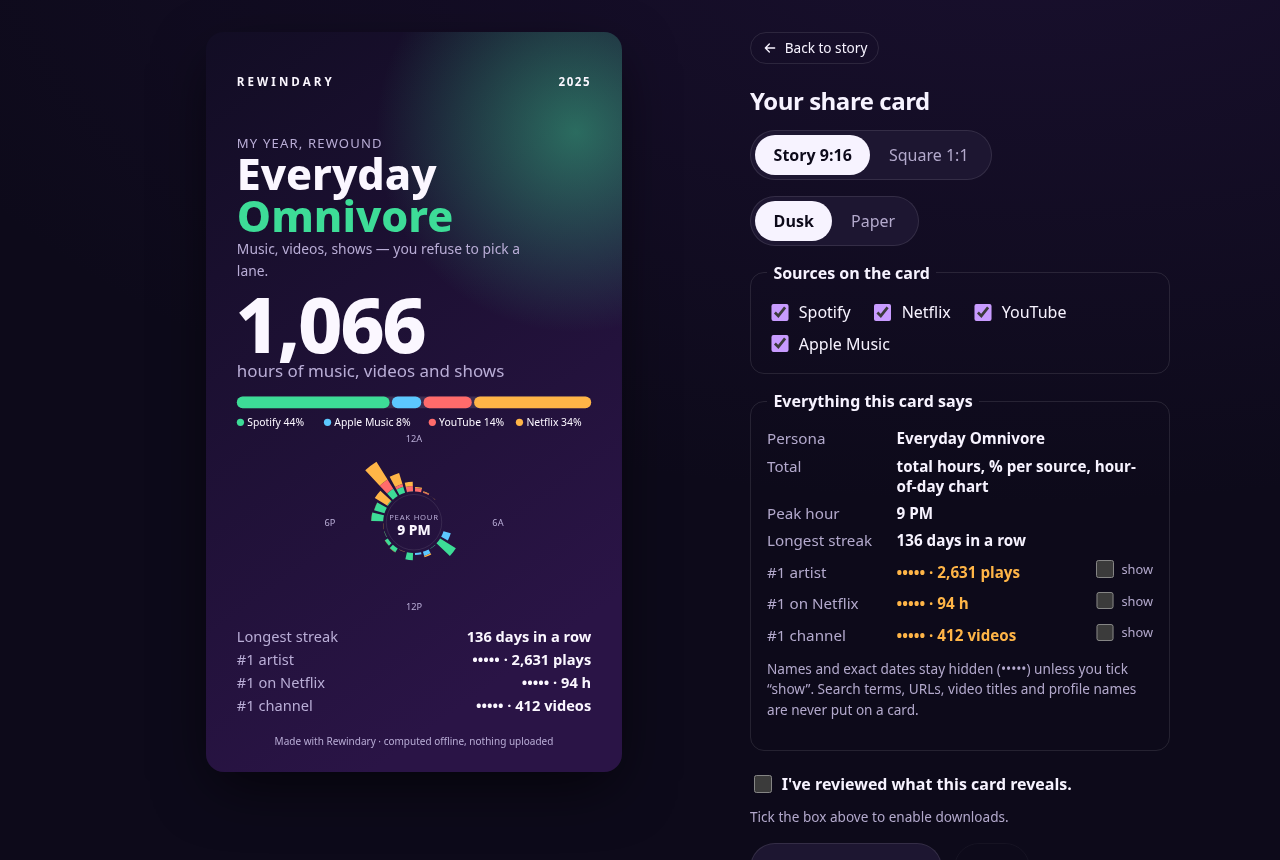
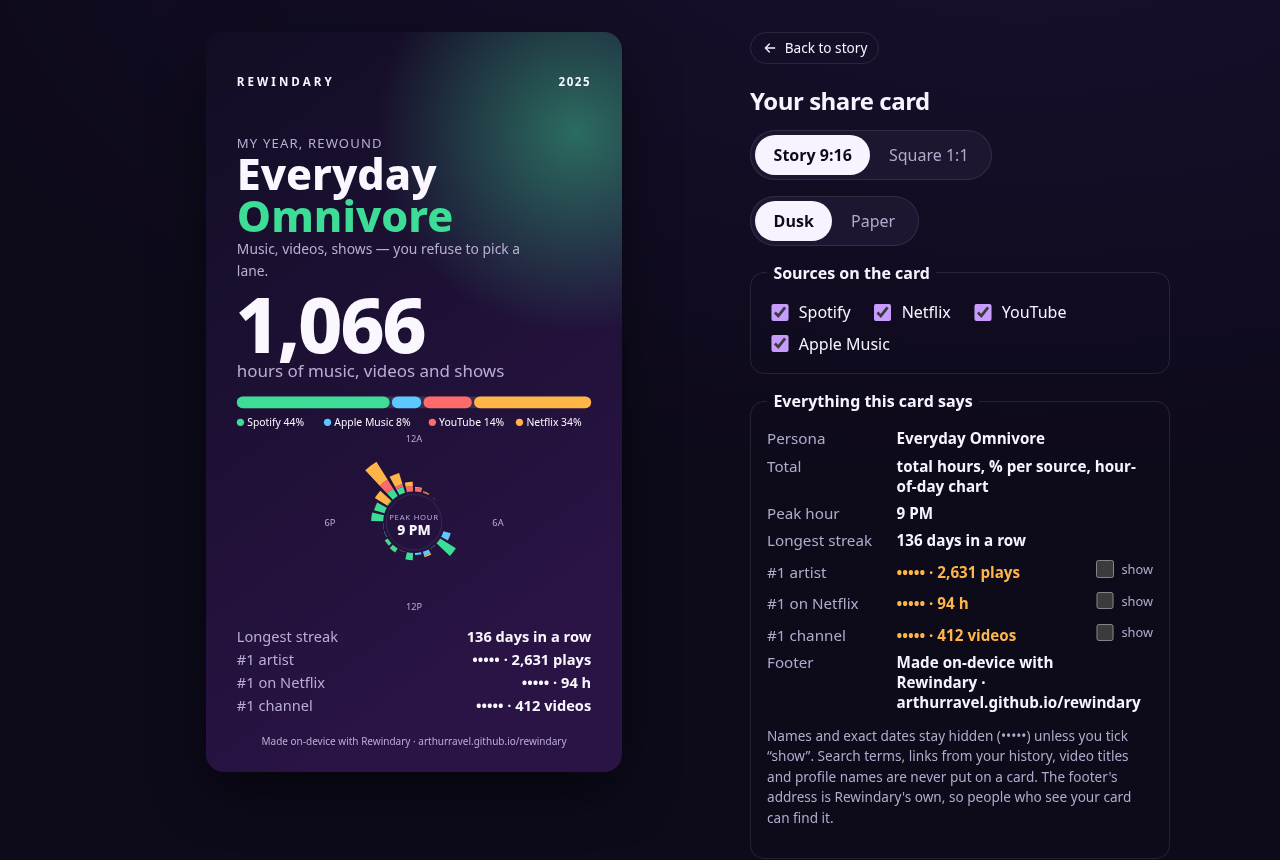
feat(share): put the app address on cards and link to the source
A shared card said "Made with Rewindary" but carried no address, and the
start page claimed "open source" without a link. Cards now end with
"Made on-device with Rewindary · arthurravel.github.io/rewindary" (also
listed in the card review), and the start page and end slide link to the
repository in a new tab with no referrer or opener. Both values live in
src/site.ts; the source and dist scans allow exactly that one URL.

Verified: corepack pnpm@9.15.0 verify (103/103 unit, 42/42 E2E).

Changed region(s): [[0.5938, 0.7558, 0.9062, 0.9674], [0.2188, 0.8465, 0.4375, 0.8767]]

diff --git a/src/cards.ts b/src/cards.ts
@@ -2,14 +2,15 @@ import type { Insights } from './insights';
 import { MUSIC_SOURCES, SOURCE_LABEL } from './model';
 import { dayClockArcs, splitSegments } from './charts';
 import { dayLabel, escapeXml, hourLabel, hours, num, truncate, wrap } from './format';
+import { SITE_ADDRESS } from './site';
 
 /**
  * Share cards are built in two steps:
  *  1. `cardLines()` produces every line of text the card will contain, with a flag for
  *     anything personal (names, exact dates). The review panel shows exactly these lines.
  *  2. `renderCardSvg()` draws only those lines plus anonymous charts.
- * Personal values are hidden unless their id is in `reveal`. Search terms, URLs and raw
- * titles are never part of a card.
+ * Personal values are hidden unless their id is in `reveal`. Search terms, URLs from your
+ * history and raw titles are never part of a card; the only address on it is the app's own (`CARD_FOOTER`).
  */
 export type CardFormat = 'story' | 'square';
 export type CardTheme = 'dusk' | 'paper';
@@ -81,6 +82,12 @@ export function shownLines(ins: Insights, reveal: ReadonlySet<RevealId>, format:
   return format === 'story' ? lines.slice(0, 5) : lines.filter((l) => ['peak', 'streak', 'binge', 'topArtist'].includes(l.id)).slice(0, 3);
 }
 
+/**
+ * The footer every card carries: an anonymous attribution with the app's own address, so a card seen
+ * elsewhere leads back to a tool that can be checked. It is the only address that is ever on a card.
+ */
+export const CARD_FOOTER = `Made on-device with Rewindary · ${SITE_ADDRESS}`;
+
 export function renderCardSvg(ins: Insights, opts: CardOptions): string {
   const p = PALETTES[opts.theme];
   const W = 1080;
@@ -149,7 +156,7 @@ export function renderCardSvg(ins: Insights, opts: CardOptions): string {
     o.push(t(80, y, story ? 38 : 34, l.label, `fill="${p.dim}"`));
     o.push(t(W - 80, y, story ? 38 : 34, l.value, `text-anchor="end" font-weight="700"`));
   }
-  o.push(t(W / 2, H - (story ? 70 : 44), 26, 'Made with Rewindary · computed offline, nothing uploaded', `text-anchor="middle" fill="${p.dim}"`));
+  o.push(t(W / 2, H - (story ? 70 : 44), 26, CARD_FOOTER, `text-anchor="middle" fill="${p.dim}"`));
   o.push('</g></svg>');
   return o.join('');
 }

diff --git a/src/styles.css b/src/styles.css
@@ -22,7 +22,7 @@ code { background: #ffffff12; padding: 1px 6px; border-radius: 6px; font-size: .
 button, .button { font: inherit; cursor: pointer; border-radius: 999px; padding: .8em 1.4em; border: 1px solid transparent; transition: transform 160ms var(--ease-out), box-shadow 200ms var(--ease-out), background-color 150ms ease, border-color 150ms ease, color 150ms ease, opacity 150ms ease; display: inline-flex; align-items: center; justify-content: center; gap: .5em; }
 button:active:not(:disabled), .button:active { transform: scale(.97); }
 button:disabled { opacity: .4; cursor: not-allowed; }
-button:focus-visible, .button:focus-within, .drop:focus-within, input:focus-visible, select:focus-visible, summary:focus-visible, [tabindex]:focus-visible { outline: 3px solid var(--accent); outline-offset: 2px; }
+button:focus-visible, a:focus-visible, .button:focus-within, .drop:focus-within, input:focus-visible, select:focus-visible, summary:focus-visible, [tabindex]:focus-visible { outline: 3px solid var(--accent); outline-offset: 2px; }
 .primary { background: linear-gradient(135deg, #f6d365, #fda085 30%, #c89bff 70%, #7ee8c4); color: #170f2a; font-weight: 700; }
 .ghost { background: transparent; color: var(--fg); border-color: var(--line); }
 .primary:disabled { background: var(--card); color: var(--dim); border-color: var(--line); opacity: 1; }
@@ -113,6 +113,7 @@ input[type=checkbox] { width: 1.1rem; height: 1.1rem; accent-color: var(--accent
 .tap { position: absolute; top: 72px; bottom: 0; background: transparent; border: 0; border-radius: 0; z-index: 2; padding: 0; }
 .tap.prev { left: 0; width: 30%; } .tap.next { right: 0; width: 70%; }
 .slide.end { z-index: 3; }
+.slide.end .source { margin: 0; max-width: 34ch; }
 .huge { font-size: clamp(2.6rem, 11vw, 3.6rem); font-weight: 850; }
 .huge.persona { background: linear-gradient(90deg, #fff, var(--tone)); -webkit-background-clip: text; background-clip: text; color: transparent; }
 .mega { font-size: clamp(4.5rem, 24vw, 6rem); font-weight: 850; margin: 0; letter-spacing: -0.04em; line-height: 1; font-variant-numeric: tabular-nums; }

diff --git a/tests/cards.test.ts b/tests/cards.test.ts
@@ -1,5 +1,6 @@
 import { describe, expect, it } from 'vitest';
-import { cardLines, renderCardSvg, shownLines, type RevealId } from '../src/cards';
+import { CARD_FOOTER, cardLines, renderCardSvg, shownLines, type RevealId } from '../src/cards';
+import { SITE_ADDRESS } from '../src/site';
 import { computeInsights } from '../src/insights';
 import type { LifeEvent } from '../src/model';
 import { loadDemo } from '../src/pipeline';
@@ -43,6 +44,26 @@ describe('share-card redaction', () => {
     expect(text.some((t) => t.startsWith(top.replace(/&/g, '&amp;')))).toBe(true);
     for (const l of shownLines(ins, reveal, 'story')) expect(text.join('\n')).toContain(l.id === 'peak' ? l.value : l.label);
     for (const l of shownLines(ins, reveal, 'square')) expect(svgText(renderCardSvg(ins, { format: 'square', theme: 'paper', reveal }))).toContain(l.label);
+  });
+
+  it('every card carries the footer once, and its address is the only one on the card', () => {
+    for (const format of ['story', 'square'] as const) {
+      for (const theme of ['dusk', 'paper'] as const) {
+        for (const reveal of [none, new Set<RevealId>(['topArtist', 'topShow', 'topChannel', 'exactDay'])]) {
+          const text = svgText(renderCardSvg(ins, { format, theme, reveal }));
+          expect(text.filter((t) => t === CARD_FOOTER.replace(/&/g, '&amp;'))).toHaveLength(1);
+          const rest = text.join('\n').replace(SITE_ADDRESS, '');
+          expect(rest).not.toMatch(/[a-z0-9-]+\.(io|com|net|org|app|dev)\b|\/\//i);
+        }
+      }
+    }
+    expect(CARD_FOOTER).toContain(SITE_ADDRESS);
+    expect(SITE_ADDRESS).not.toMatch(/^https?:/);
+  });
+
+  it('the footer fits inside the card margins', () => {
+    // Same per-character estimate as the legend: about 0.56 em per character of the system sans.
+    expect(CARD_FOOTER.length * 26 * 0.56).toBeLessThan(1080 - 2 * 80);
   });
 
   it('escapes user-controlled names', () => {

diff --git a/src/ui/Share.tsx b/src/ui/Share.tsx
@@ -1,5 +1,5 @@
 import { useEffect, useMemo, useState } from 'preact/hooks';
-import { renderCardSvg, shownLines, type CardFormat, type CardTheme, type RevealId } from '../cards';
+import { CARD_FOOTER, renderCardSvg, shownLines, type CardFormat, type CardTheme, type RevealId } from '../cards';
 import { computeInsights } from '../insights';
 import type { LifeEvent, SourceId } from '../model';
 import { SOURCE_LABEL } from '../model';
@@ -114,8 +114,9 @@ export function Share({ events, year, onBack }: { events: LifeEvent[]; year: num
                 )}
               </li>
             ))}
+            <li data-testid="review-footer"><span>Footer</span><b>{CARD_FOOTER.replace(' · ', ' · ')}</b></li>
           </ul>
-          <p class="fine">Names and exact dates stay hidden (•••••) unless you tick “show”. Search terms, URLs, video titles and profile names are never put on a card.</p>
+          <p class="fine">Names and exact dates stay hidden (•••••) unless you tick “show”. Search terms, links from your history, video titles and profile names are never put on a card. The footer's address is Rewindary's own, so people who see your card can find it.</p>
         </fieldset>
         <label class="check confirm">
           <input type="checkbox" checked={reviewed} onChange={() => setReviewed(!reviewed)} data-testid="confirm-review" />

diff --git a/tests/privacy-source.test.ts b/tests/privacy-source.test.ts
@@ -11,7 +11,16 @@ it('application source uses no network APIs', () => {
   expect(files(SRC).filter((f) => banned.test(code(f))).map((f) => relative(SRC, f))).toEqual([]);
 });
 
-it('remote URLs only appear as synthetic export data in the demo generator', () => {
+it('remote URLs only appear as synthetic export data in the demo generator, plus the source link', () => {
   const url = /https?:\/\/(?!www\.w3\.org\/2000\/svg)/;
-  expect(files(SRC).filter((f) => url.test(code(f))).map((f) => relative(SRC, f))).toEqual(['demo.ts']);
+  expect(files(SRC).filter((f) => url.test(code(f))).map((f) => relative(SRC, f))).toEqual(['demo.ts', 'site.ts']);
+  // site.ts holds exactly one URL, the repository a visitor may choose to open; it is never fetched (see the test above).
+  expect([...code(join(SRC, 'site.ts')).matchAll(/https?:\/\/[^\s'"`]+/g)].map((m) => m[0])).toEqual(['https://github.com/ArthurRavel/rewindary']);
+});
+
+it('the source link opens in a new tab without a referrer or opener', () => {
+  const link = code(join(SRC, 'ui', 'SourceLink.tsx'));
+  expect(link).toMatch(/href=\{SOURCE_URL\}/);
+  expect(link).toMatch(/target="_blank"/);
+  expect(link).toMatch(/rel="noopener noreferrer"/);
 });

diff --git a/src/ui/Home.tsx b/src/ui/Home.tsx
@@ -2,6 +2,7 @@ import { useState } from 'preact/hooks';
 import { FOLDER_PICKER, fromInput, type Picked } from './folders';
 import { GUIDES } from './guides';
 import { Icon, Mark } from './Icon';
+import { SourceLink } from './SourceLink';
 
 export function Home({ onFiles, onDrop, onDemo, status, error }: {
   onFiles: (f: Picked[]) => void; onDrop: (dt: DataTransfer) => void; onDemo: () => void; status: string | null; error: string | null;
@@ -52,7 +53,10 @@ export function Home({ onFiles, onDrop, onDemo, status, error }: {
         ))}
       </section>
       <footer class="foot">
-        <p>Open source (MIT). No analytics, no cookies, no remote fonts. Open DevTools → Network and watch: nothing goes out.</p>
+        <p>
+          Open source (MIT): <SourceLink>read the code on GitHub</SourceLink>. No analytics, no cookies, no remote fonts.
+          Open DevTools → Network and watch: nothing goes out.
+        </p>
         <p class="fine">Not affiliated with Spotify, Apple, Google, YouTube or Netflix.</p>
       </footer>
     </main>

diff --git a/src/ui/Story.tsx b/src/ui/Story.tsx
@@ -8,6 +8,7 @@ import type { SourceId } from '../model';
 import { SOURCE_LABEL } from '../model';
 import { DayClock, Legend, MonthBars, SplitBar } from './Charts';
 import { Icon } from './Icon';
+import { SourceLink } from './SourceLink';
 
 interface Slide { id: string; tone: SourceId | 'mix'; body: ComponentChildren }
 
@@ -288,6 +289,7 @@ export function Story({ ins, onShare, onExit }: { ins: Insights; onShare: () => 
               <button class="primary" onClick={onShare} ref={shareRef}>Create share card</button>
               <button class="ghost" onClick={() => setI(0)}>Replay</button>
             </div>
+            <p class="fine source rise" style="animation-delay:600ms">Rewindary is open source. <SourceLink>See how it works on GitHub</SourceLink>.</p>
           </div>
         ) : (
           <div class="slide" key={slide.id} aria-live="polite">{slide.body}</div>

diff --git a/src/site.ts b/src/site.ts
@@ -1,0 +1,12 @@
+/**
+ * Where this copy of Rewindary lives and where its code is. A fork that hosts its own copy changes
+ * these two lines. They are text and a link the visitor may choose to follow: nothing is ever fetched
+ * from them (the CSP would block it anyway). SOURCE_URL is the one remote URL the source and dist scans allow
+ * outside the demo data, and only exactly as written here.
+ */
+
+/** Printed in the share-card footer, so someone who sees a card can find the app. No scheme: it is read, not clicked. */
+export const SITE_ADDRESS = 'arthurravel.github.io/rewindary';
+
+/** Linked from the start page and the end of the story, so the "open source" claim can be checked. */
+export const SOURCE_URL = 'https://github.com/ArthurRavel/rewindary';

diff --git a/src/ui/SourceLink.tsx b/src/ui/SourceLink.tsx
@@ -1,0 +1,14 @@
+import type { ComponentChildren } from 'preact';
+import { SOURCE_URL } from '../site';
+
+/**
+ * A plain link to the source code. Nothing is loaded from it unless the visitor follows it, and then in a
+ * new tab with no referrer and no opener, so the story and its data stay in this tab.
+ */
+export function SourceLink({ children }: { children: ComponentChildren }) {
+  return (
+    <a class="link" href={SOURCE_URL} target="_blank" rel="noopener noreferrer" data-testid="source-link">
+      {children}<span class="sr-only"> (opens in a new tab)</span>
+    </a>
+  );
+}

diff --git a/README.md b/README.md
@@ -27,9 +27,10 @@ Drop the official data exports and you get an animated, mobile-first year in rev
   - "second screen" time, when music played while a video or show was on
   - a persona such as *Midnight Soundtracker* or *Weekend Binge Scholar*
 - **A story:** tap or arrow keys to move, auto-advance with pause, and support for `prefers-reduced-motion`.
-- **Share cards:** 9:16 story or 1:1 square, two themes, PNG or SVG. A review panel lists *every* line the card will contain (the panel and the renderer share one function). Personal values (#1 artist, show and channel, and the exact date of your busiest day) appear as `•••••` until you tick "show". You can drop whole sources from the card. Downloads stay disabled until you confirm that you've reviewed the card.
+- **Share cards:** 9:16 story or 1:1 square, two themes, PNG or SVG. A review panel lists *every* line the card will contain (the panel and the renderer share one function). Personal values (#1 artist, show and channel, and the exact date of your busiest day) appear as `•••••` until you tick "show". You can drop whole sources from the card. Downloads stay disabled until you confirm that you've reviewed the card. Every card ends with the same footer, "Made on-device with Rewindary · arthurravel.github.io/rewindary", so someone who sees your card can find the app; it is listed in the review panel too, and it is the only address a card ever carries.
 - **Privacy receipt.** After your files are parsed, the review screen shows what this tab actually did: requests to other sites (none), attempts the Content-Security-Policy blocked, how many page files loaded from the site itself, and whether anything was saved in the browser. It reads the browser's own request log (Resource Timing) and CSP reports, shows hosts only (never paths or queries), sends nothing, and can be re-checked at any time.
 - **Explains files it can't use.** If a dropped export has no usable history, the review screen says what it was and what to request instead: a Takeout with YouTube data but no history (and a reminder that big Takeouts come in several zips), a Spotify export without streaming history, a Netflix export without `ViewingActivity.csv`, or an unsupported archive. It reads only file and archive-entry names to decide, and you can add the missing export from the same screen.
+- **A link to the code.** The start page and the end of the story link to this repository, so "open source" can be checked. It is a plain link, opened in a new tab with no referrer only if you click it; nothing is loaded from it.
 - **Netflix profile filter** for shared accounts, a year or all-time selector, and per-source toggles.
 - **Synthetic demo.** The demo generates two years of fake Spotify, Apple Music, Google Takeout and Netflix exports in the real formats and runs them through the same parsers as your files.
 
@@ -43,7 +44,7 @@ Drop the official data exports and you get an animated, mobile-first year in rev
 | No telemetry, analytics, CDNs or remote fonts | No such code exists; system font stack only | `tests/privacy-source.test.ts` scans the source for network APIs. `scripts/check-dist.mjs` scans the built bundle for remote URLs and network APIs and checks that the CSP is present |
 | Nothing persisted | No cookies, `localStorage`, `IndexedDB` or service worker. Closing the tab forgets everything | E2E asserts empty `localStorage`, `sessionStorage` and cookies |
 | Minimal data kept in memory | Adapters drop IP addresses, countries, devices, platforms, Apple IDs and bookmarks. **Search terms and URLs are discarded at parse time**, so a search becomes a bare timestamp. Ads, trailers, sub-minute previews and Spotify **private-session plays are excluded** | Parser tests assert that the synthetic IPs, queries, URLs and device names are absent from the parsed events |
-| Safe share cards | Names and exact dates are hidden by default. Titles, search terms, URLs and profile names are never on a card. User strings are XML-escaped | `tests/cards.test.ts` renders every format and theme from a full synthetic year and asserts that no name, title, profile, URL or exact date appears. The E2E test downloads the real PNG and SVG and checks them |
+| Safe share cards | Names and exact dates are hidden by default. Titles, search terms, URLs from your history and profile names are never on a card; the only address on it is Rewindary's own, in the footer. User strings are XML-escaped | `tests/cards.test.ts` renders every format and theme from a full synthetic year and asserts that no name, title, profile, URL or exact date appears, and that the footer address is the only one. The E2E test downloads the real PNG and SVG and checks them |
 
 **Threat model.** Rewindary protects you against the app itself, its hosting and its dependencies exfiltrating your history: the browser enforces the CSP even if the code had a bug. It also protects you from oversharing by accident through a card. It does **not** protect against a compromised browser or extension, or against someone with access to your unlocked device while the tab is open. The CSP is delivered as a `<meta>` tag because GitHub Pages cannot set headers. That covers network requests, but not `frame-ancestors`. If you don't want to trust the hosted copy, build it yourself (see below) and open `dist/` from any static server, or check DevTools → Network.
 
@@ -111,21 +112,21 @@ pnpm demo-gif         # re-capture screenshots from the build and regenerate doc
 
 What `verify` runs, exactly:
 - `tsc --noEmit`: strict TypeScript.
-- `node scripts/run-tests.mjs`: 100 Vitest tests in 10 files, run in UTC.
+- `node scripts/run-tests.mjs`: 103 Vitest tests in 10 files, run in UTC.
   - Parsers: every format, including edge cases (skips, incognito, ads, trailers, removed videos, localized HTML dates, CSV quoting).
   - Ingest: streamed zips, unrelated entries skipped, de-duplication, Spotify source preference, YouTube duration estimates.
   - Insights: streaks, breaks, busiest day, binges, overlap, persona, default year, year-over-year comparison (same-date windows, coverage, stale exports, Feb 29), the deterministic synthetic years across all four services.
-  - Redaction: all card formats and themes, review lines equal card lines, XML escaping.
+  - Redaction: all card formats and themes, review lines equal card lines, XML escaping, the footer (once per card, the only address on it, and it fits).
   - Privacy receipt: same-origin vs external hosts, blocked attempts by host only, stored items.
   - Localized Takeouts: history under French, German and Spanish file names, the content check that decides what is kept (and that photo sidecars, bookmarks and Maps activity are not), thousands of tiny entries in one archive, stored (uncompressed) entries, and an entry with a compression method it cannot read.
   - Unzipped folders: a Takeout folder gives the same events as its zip, photos and sidecars are never opened, unreadable peeked files are skipped, one note per folder without history, zips inside a folder, the batched directory walk.
   - Unrecognised files: Takeout with YouTube data but no history (and split parts), Takeout of other products, Spotify and Netflix exports without history, unsupported archives, history-named files that don't parse.
   - Apple Music: header detection, only `PLAY_END` rows count (with a fallback when there are none), UTC timestamps, skips and broken rows, no Apple ID/IP/device in the events, the nested `Apple_Media_Services.zip` (one level only), a missing-artist export, the 30 s play rule, the shared music persona and listening run, the #1 artist on cards and a four-source legend that fits the card.
-  - Source privacy scan.
-- `vite build`: static output in `dist/` with a relative base, ready for GitHub Pages. About 78 KB of JS (≈30 KB gzipped) plus a 26 KB parser worker. Runtime dependencies are `preact` and `fflate`.
-- `node scripts/check-dist.mjs`: no remote URLs or network APIs in the bundle, and a strict CSP is present.
+  - Source privacy scan: no network APIs; the only remote URLs are the demo's synthetic data and the source-code link, which must open in a new tab with no referrer or opener.
+- `vite build`: static output in `dist/` with a relative base, ready for GitHub Pages. About 79 KB of JS (≈30 KB gzipped) plus a 26 KB parser worker. Runtime dependencies are `preact` and `fflate`.
+- `node scripts/check-dist.mjs`: no remote URLs or network APIs in the bundle (the exact source-code link is the one allowed URL besides the demo's synthetic data and the SVG namespace), and a strict CSP is present.
 - `node scripts/e2e.mjs`: drives the built site in headless Chromium, served under `/rewindary/` exactly like the GitHub Pages project site (any request outside that path fails the run). `E2E_URL=https://arthurravel.github.io/rewindary/ node scripts/e2e.mjs` runs the same checks against the deployed copy.
-  - Runs the demo through every slide (including Apple Music and the four-source year-over-year comparison), then tests the review gate and the PNG (1080×1920) and SVG exports, with and without revealed names.
+  - Runs the demo through every slide (including Apple Music and the four-source year-over-year comparison), then tests the review gate and the PNG (1080×1920) and SVG exports, with and without revealed names. Checks the source-code link on the start page and the end slide (new tab, no referrer or opener), the footer line in the review panel, and that the exported card carries the app address once and no other link.
   - Uploads zipped and plain fixtures for Spotify, Google and Netflix, and Apple's nested privacy zip (play activity read, its own story slide, the #1 artist hidden on the card review).
   - Checks zero external requests, that the CSP blocks a deliberate `fetch`, empty storage, and no page errors.
   - Checks that the privacy receipt reports no external requests, then surfaces the deliberate blocked `fetch` by host only after "Check again".
@@ -138,7 +139,7 @@ All fixtures in `tests/fixtures/` and all demo data are synthetic. Documentation
 
 ## Deploy
 
-The live site is served by GitHub Pages from the `gh-pages` branch, which holds only a built `dist/` (plus `.nojekyll`). Each release runs `pnpm verify` locally, then commits that exact verified `dist/` to `gh-pages` with the `main` commit it was built from in the message. There is no CI workflow in this repository. To host a fork, run `pnpm verify` and publish `dist/` the same way (Settings → Pages → Deploy from a branch → `gh-pages`). Any static host works too, since the build uses relative paths.
+The live site is served by GitHub Pages from the `gh-pages` branch, which holds only a built `dist/` (plus `.nojekyll`). Each release runs `pnpm verify` locally, then commits that exact verified `dist/` to `gh-pages` with the `main` commit it was built from in the message. There is no CI workflow in this repository. To host a fork, change the two lines in `src/site.ts` (the address printed on cards and the source link) and the copies pinned in `scripts/check-dist.mjs`, `scripts/e2e.mjs` and `tests/privacy-source.test.ts`, run `pnpm verify` and publish `dist/` the same way (Settings → Pages → Deploy from a branch → `gh-pages`). Any static host works too, since the build uses relative paths.
 
 ## Project layout
 
